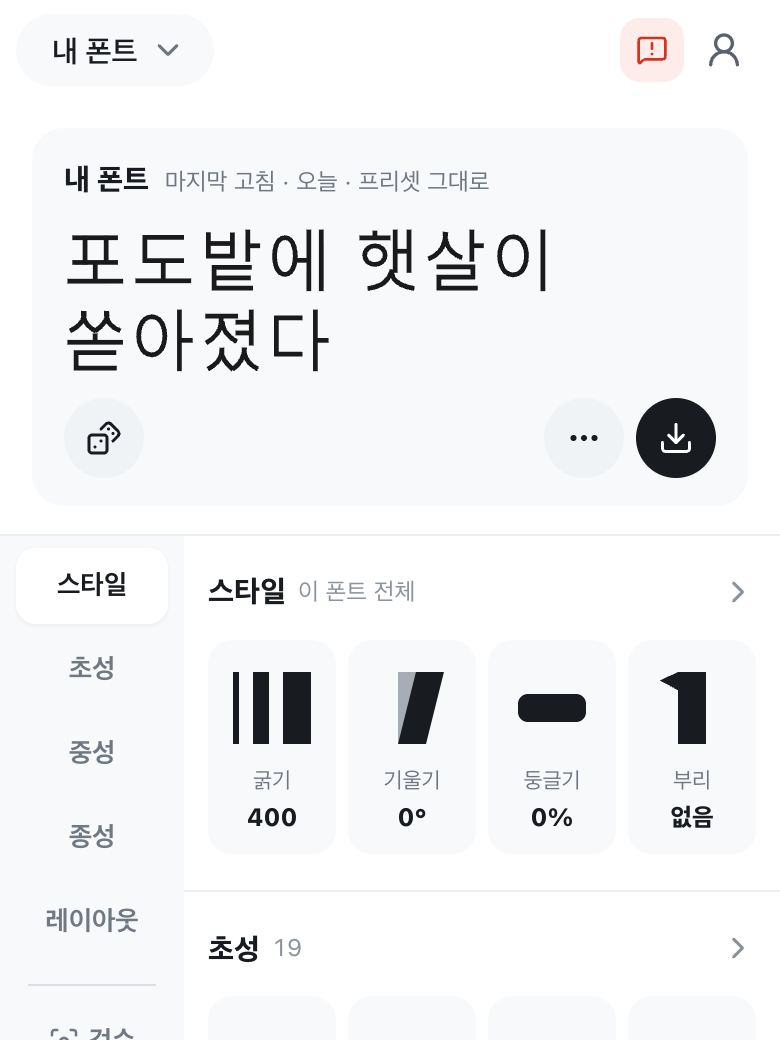
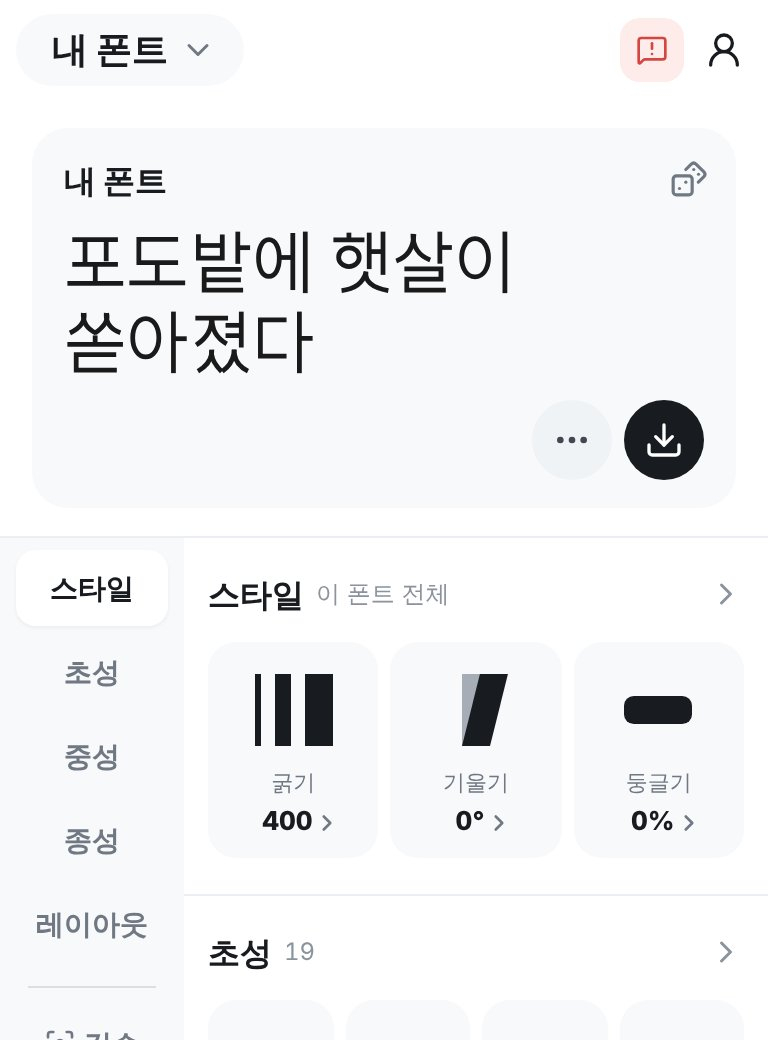
feat(screens): 화면 머리 제목을 18 · 아주 굵게로 통일하고 첫 안내 그림을 새로 찍는다
- 계정 · 약관 · 개인정보: 큰 제목을 ‹ 옆 머리로, 머리 자리 · ‹ 크기를 작업 화면과 같게
- 대시보드 폰트 알약 이름 16 · 600 → 18 · 800
- 첫 안내 그림 6장을 지금 화면으로, 스타일 문구에 기울기

Claude-Session: https://claude.ai/code/session_019449ogcuq7eCerbbs6Zf4H

diff --git a/src-next/AccountPage.module.css b/src-next/AccountPage.module.css
@@ -3,12 +3,14 @@
 .page { min-height: 100dvh; background: rgb(var(--color-background)); color: rgb(var(--color-foreground)); }
 .shell { width: min(100%, 480px); min-height: 100dvh; box-sizing: border-box; margin: 0 auto; display: flex; flex-direction: column; background: rgb(var(--color-surface)); box-shadow: var(--shadow-md); }
 
-.bar { position: sticky; top: 0; z-index: 2; min-height: 56px; display: flex; align-items: center; gap: 2px; padding: max(0px, env(safe-area-inset-top)) 8px 0; background: rgb(var(--color-surface)); }
-.bar h2 { margin: 0; font-size: var(--font-18); font-weight: var(--weight-bold); }
+/* 머리는 작업 화면(`WorkspaceChrome`)과 같은 자리 · 같은 글씨: ‹ 옆 18 · 아주 굵게(10-08). */
+.bar { position: sticky; top: 0; z-index: 2; min-height: 50px; display: flex; align-items: center; gap: 4px; padding: max(2px, env(safe-area-inset-top)) 10px 2px 8px; background: rgb(var(--color-surface)); }
+.bar h1 { min-width: 0; margin: 0; overflow: hidden; font-size: var(--font-18); font-weight: var(--weight-heavy); text-overflow: ellipsis; white-space: nowrap; }
+.bar > button { color: rgb(var(--color-text-3)); }
+.bar > button svg { width: 20px; height: 20px; }
 
 .body { flex: 1; display: flex; flex-direction: column; padding: 8px 24px max(24px, env(safe-area-inset-bottom)); }
-.body h1 { margin: 8px 0 4px; font-size: var(--font-28); font-weight: var(--weight-heavy); letter-spacing: -.01em; overflow-wrap: anywhere; }
-.sub { margin: 0; color: rgb(var(--color-text-4)); font-size: var(--font-14); }
+.sub { margin: 8px 0 0; color: rgb(var(--color-text-4)); font-size: var(--font-14); }
 
 .facts { margin: 36px 0 12px; display: flex; flex-direction: column; }
 .facts div { min-height: 56px; display: flex; align-items: center; justify-content: space-between; font-size: var(--font-16); }

diff --git a/src-next/legal/LegalPage.module.css b/src-next/legal/LegalPage.module.css
@@ -2,11 +2,13 @@
 .page { min-height: 100dvh; background: rgb(var(--color-background)); color: rgb(var(--color-foreground)); }
 .shell { width: min(100%, 480px); min-height: 100dvh; box-sizing: border-box; margin: 0 auto; display: flex; flex-direction: column; background: rgb(var(--color-surface)); box-shadow: var(--shadow-md); }
 
-.bar { position: sticky; top: 0; z-index: 2; min-height: 56px; display: flex; align-items: center; padding: max(0px, env(safe-area-inset-top)) 8px 0; background: rgb(var(--color-surface)); }
+/* 머리는 작업 화면(`WorkspaceChrome`)과 같은 자리 · 같은 글씨: ‹ 옆 18 · 아주 굵게(10-08). */
+.bar { position: sticky; top: 0; z-index: 2; min-height: 50px; display: flex; align-items: center; gap: 4px; padding: max(2px, env(safe-area-inset-top)) 10px 2px 8px; background: rgb(var(--color-surface)); }
+.bar h1 { min-width: 0; margin: 0; overflow: hidden; font-size: var(--font-18); font-weight: var(--weight-heavy); text-overflow: ellipsis; white-space: nowrap; }
+.bar > button { color: rgb(var(--color-text-3)); }
+.bar > button svg { width: 20px; height: 20px; }
 
 .body { flex: 1; padding: 8px 24px max(32px, env(safe-area-inset-bottom)); font-size: var(--font-14); line-height: 1.7; word-break: keep-all; overflow-wrap: anywhere; user-select: text; }
-.body h1 { margin: 8px 0 4px; font-size: var(--font-28); font-weight: var(--weight-heavy); letter-spacing: -.01em; }
-.sub { margin: 0 0 20px; color: rgb(var(--color-text-4)); font-size: var(--font-14); }
 .body h2 { margin: 32px 0 8px; font-size: var(--font-16); font-weight: var(--weight-bold); }
 .body p { margin: 0 0 10px; color: rgb(var(--color-text-2)); }
 .body strong { color: rgb(var(--color-foreground)); font-weight: var(--weight-bold); }

diff --git a/src-next/BetaGuideSheet.tsx b/src-next/BetaGuideSheet.tsx
@@ -3,7 +3,7 @@ import { SlideSheet } from './SlideSheet'
 /** 화면 그림은 `public/beta-guide/`의 실제 앱 캡처(390×520, 2배). 화면이 바뀌면 다시 찍는다. */
 const STEPS: { image: string; title: string; body: string; bottom?: true }[] = [
   { image: '1-dashboard', title: '대시보드', body: '내 폰트를 한눈에 보는 곳이에요. 위 카드에 지금 폰트로 쓴 문장이 보이고, 왼쪽 목차로 스타일 · 초성 · 중성 · 종성 · 레이아웃을 오가요.' },
-  { image: '2-style', title: '스타일', body: '폰트 전체의 굵기 · 붓 · 둥글기 · 꺾임을 바꿔요. 위 문장이 바로 따라 바뀌어요.' },
+  { image: '2-style', title: '스타일', body: '폰트 전체의 굵기 · 기울기 · 붓 · 둥글기 · 꺾임을 바꿔요. 위 문장이 바로 따라 바뀌어요.' },
   { image: '3-jamo', title: '초성 · 중성 · 종성', body: '고칠 자소를 골라 담고 ‘고치기’를 눌러요. 획을 끌어 모양을 바꾸면 그 자소가 들어간 글자가 다 같이 바뀌어요.' },
   { image: '4-layout', title: '레이아웃', body: '글자 안에서 초성 · 중성 · 종성이 앉는 자리예요. 여섯 틀마다 상자 선을 끌어 자리를 넓히거나 좁혀요.' },
   { image: '5-review', title: '검수', body: '만든 글자를 표로 모아 훑어봐요. 어색한 글자를 누르면 그 글자로 들어가 고쳐요.' },

diff --git a/src-next/DashboardLabPage.module.css b/src-next/DashboardLabPage.module.css
@@ -5,7 +5,7 @@
 .head h1 { margin: 0; font-size: var(--font-16); font-weight: var(--weight-heavy); }
 /* 머리 왼쪽 회색 알약 = 지금 폰트 이름 + 꺾쇠. 누르면 내 폰트 시트. 긴 이름은 한 줄에서 `…`. */
 .head .title { flex: 1; min-width: 0; display: flex; margin-left: -8px; }
-.head .switcher { max-width: 100%; min-height: 36px; display: inline-flex; align-items: center; gap: 6px; padding: 0 14px 0 18px; border-radius: var(--radius-full); background: rgb(var(--color-surface-2)); color: rgb(var(--color-foreground)); font-size: var(--font-16); font-weight: var(--weight-semibold); transition: background-color var(--motion-fast) var(--ease-standard); }
+.head .switcher { max-width: 100%; min-height: 36px; display: inline-flex; align-items: center; gap: 6px; padding: 0 14px 0 18px; border-radius: var(--radius-full); background: rgb(var(--color-surface-2)); color: rgb(var(--color-foreground)); font-size: var(--font-18); font-weight: var(--weight-heavy); transition: background-color var(--motion-fast) var(--ease-standard); }
 .head .switcher span { min-width: 0; overflow: hidden; text-overflow: ellipsis; white-space: nowrap; }
 .head .switcher svg { flex: none; color: rgb(var(--color-text-4)); transition: transform var(--motion-normal) var(--ease-standard); }
 .head .switcher svg[data-open] { transform: rotate(180deg); }

diff --git a/src-next/AccountPage.tsx b/src-next/AccountPage.tsx
@@ -23,7 +23,7 @@ import styles from './AccountPage.module.css'
 function Bar({ back, title }: { back: string; title?: string }) {
   return <header className={styles.bar}>
     <Button variant="plain" size="icon-lg" aria-label="뒤로" onClick={() => navigate(back)}><ChevronLeft aria-hidden="true" /></Button>
-    {title && <h2>{title}</h2>}
+    {title && <h1>{title}</h1>}
   </header>
 }
 
@@ -53,9 +53,8 @@ function AccountHome() {
   const joined = me?.joinedAt ? new Date(me.joinedAt).toLocaleDateString('ko-KR') : '–'
 
   return <Shell testId="account-page">
-    <Bar back="/dashboard" />
+    <Bar back="/dashboard" title={me?.nickname ?? '나'} />
     <div className={styles.body}>
-      <h1>{me?.nickname ?? '나'}</h1>
       <p className={styles.sub}>{isGuest() ? '로그인 전' : me?.beta ? '베타 참여자' : '회원'}</p>
       {isGuest()
         ? <p className={styles.guestNote}>지금 만드는 폰트는 이 기기에만 있어요. 받을 때 카카오로 로그인하면 계정에 저장돼요.</p>

diff --git a/src-next/legal/LegalPage.tsx b/src-next/legal/LegalPage.tsx
@@ -56,10 +56,9 @@ export function LegalPage({ kind }: { kind: LegalKind }) {
     <div className={styles.shell} data-testid={`legal-${kind}`}>
       <header className={styles.bar}>
         <Button variant="plain" size="icon-lg" aria-label="뒤로" onClick={goBack}><ChevronLeft aria-hidden="true" /></Button>
+        <h1>{doc.title}</h1>
       </header>
       <article className={styles.body}>
-        <h1>{doc.title}</h1>
-        <p className={styles.sub}>한글칸글</p>
         {blocks.map((block, index) => <Block key={index} block={block} />)}
         <div className={styles.band} />
         <a className={styles.other} href={`/${doc.other}`}>{doc.otherTitle} 보기</a>

diff --git a/docs/specs/화면/대시보드.md b/docs/specs/화면/대시보드.md
@@ -9,7 +9,7 @@ updated: 2026-09-26
 로그인하면 처음 보는 화면이자 지금 연 폰트의 한눈 화면. 셸 머리 `‹ 내 폰트`도 여기로 온다. 위는 폰트 카드, 아래는 왼쪽 레일 + 섹션 다섯(스타일 → 레이아웃 → 초성 → 중성 → 종성, 큰 것부터 작은 것). 플랜: `docs/plans/2026-09-26_섹션-홈과-도마.md`. 코드는 옛 랩 이름 `DashboardLabPage.tsx` 그대로.
 
 ## 1. 폰트 카드
-- 1.1 알약 — 머리 왼쪽 회색 알약 `이름 ⌄` = 지금 폰트. 누르면 내 폰트 드로어(1.4), 다시 누르면 닫힌다. 머리 아래 선은 없다. 계정 폰트를 안 연 랩 화면이면 이름만
+- 1.1 알약 — 머리 왼쪽 회색 알약 `이름 ⌄` = 지금 폰트. 이름은 다른 화면 머리 제목과 같은 18 · 아주 굵게. 누르면 내 폰트 드로어(1.4), 다시 누르면 닫힌다. 머리 아래 선은 없다. 계정 폰트를 안 연 랩 화면이면 이름만
 - 1.2 카드 — 지금 폰트 하나. 마지막 고침 · 예시 문장을 이 폰트로. 이름은 알약에 있어 카드엔 없다. 아래 오른쪽에 `…` · 다운로드
 - 1.3 마이페이지 — 머리 오른쪽 아이콘. 아이디 · 요금제 · 폰트 수 `n / 한도`(한도는 프로필 `font_limit`, 새 카카오 계정 1 · 베타 3), 게이트가 켜졌을 때만 로그아웃 · 탈퇴
 - 1.4 내 폰트 드로어 — 머리 바로 아래에서 내려오고, 닫을 땐 거꾸로 올라간다(바깥 · Esc · 알약). 만든 순서대로, 고르거나 고쳐도 자리가 안 바뀐다. 지금 폰트 줄은 회색 면 + ✓(고친 자소 수 · 고친 날), 나머지는 고친 날. 줄을 누르면 지금 폰트를 올리고 그 폰트로 대시보드를 다시 연다. 못 올리면 가지 않고 아래 알림

diff --git a/docs/specs/화면/계정.md b/docs/specs/화면/계정.md
@@ -6,10 +6,10 @@ updated: 2026-10-07
 ---
 # 계정
 
-대시보드 머리 아바타로 들어오는 내 정보 페이지(09-27, 팝오버에서 페이지로). 머리는 `‹`만 있고 대시보드로 돌아간다. 하위 주소 `/account/feedback`이 내가 보낸 의견 목록이다.
+대시보드 머리 아바타로 들어오는 내 정보 페이지(09-27, 팝오버에서 페이지로). 머리는 `‹ 닉네임`(작업 화면 머리와 같은 18 · 아주 굵게)이고 `‹`는 대시보드로 돌아간다. 하위 주소 `/account/feedback`이 내가 보낸 의견 목록이다.
 
 ## 1. 내 정보
-- 1.1 닉네임 — 큰 제목. 아래 옅은 줄은 베타 계정(초대 코드)이면 `베타 참여자`, 아니면 `회원`
+- 1.1 닉네임 — 머리 제목. 본문 첫 옅은 줄은 베타 계정(초대 코드)이면 `베타 참여자`, 아니면 `회원`
 - 1.2 내 폰트 — 가진 폰트 수 / 한도(프로필 `font_limit`, 새 카카오 계정 1 · 베타 3)
 - 1.3 요금제 — 베타 계정은 `베타 · 무료`, 아니면 `무료`
 - 1.4 가입 — 가입한 날

diff --git a/docs/specs/화면/이용약관.md b/docs/specs/화면/이용약관.md
@@ -10,6 +10,6 @@ updated: 2026-10-05
 
 ## 1. 본문
 - 1.1 머리 `‹` — 같은 사이트에서 왔으면 뒤로, 주소로 바로 왔으면 처음 화면으로
-- 1.2 큰 제목 `이용약관`, 아래 옅은 줄 서비스 이름
+- 1.2 머리 제목 `이용약관` — `‹` 옆, 작업 화면 머리와 같은 18 · 아주 굵게
 - 1.3 조항 — 조 제목, 번호 목록, 굵게. 글은 고를 수 있다
 - 1.4 끝에 `개인정보 처리방침 보기` 링크

diff --git a/docs/specs/화면/개인정보처리방침.md b/docs/specs/화면/개인정보처리방침.md
@@ -10,6 +10,6 @@ updated: 2026-10-05
 
 ## 1. 본문
 - 1.1 머리 `‹` — `이용약관 1.1`과 같다
-- 1.2 큰 제목 `개인정보 처리방침`
+- 1.2 머리 제목 `개인정보 처리방침` — `이용약관 1.2`와 같다
 - 1.3 항목 — 위탁 · 국외 이전 같은 표는 좁은 화면에서 옆으로 민다
 - 1.4 끝에 `이용약관 보기` 링크
